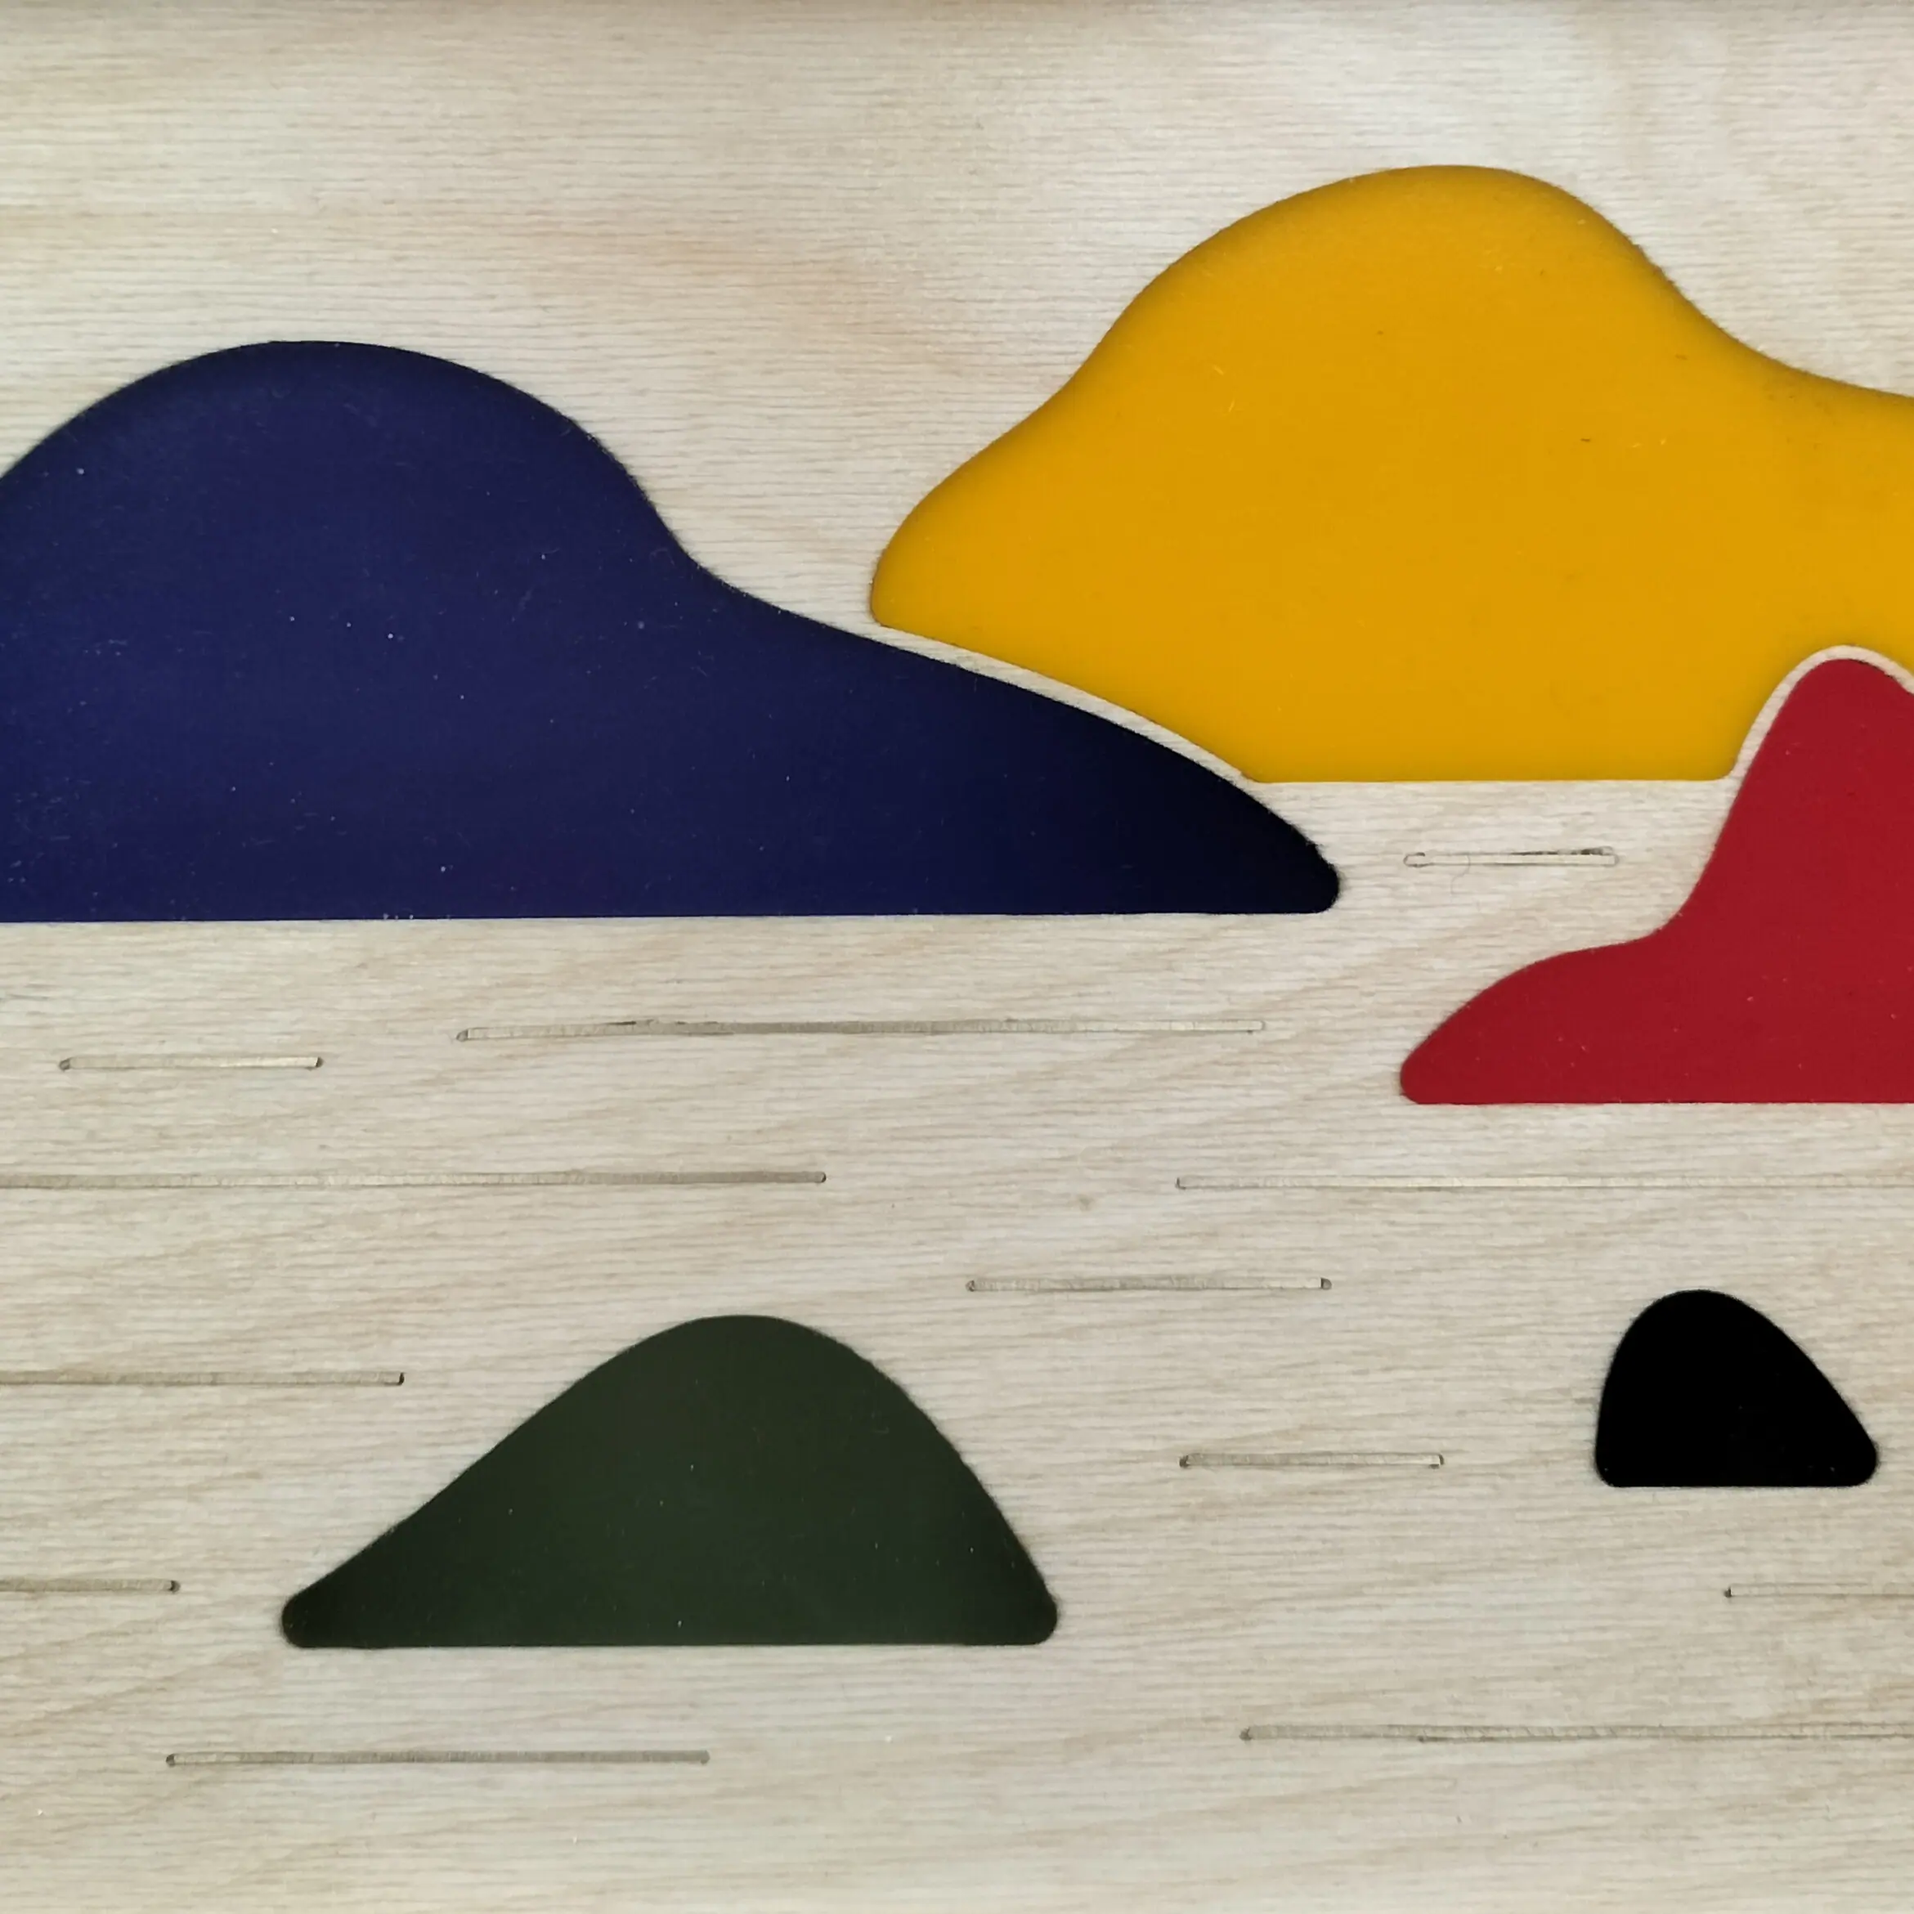
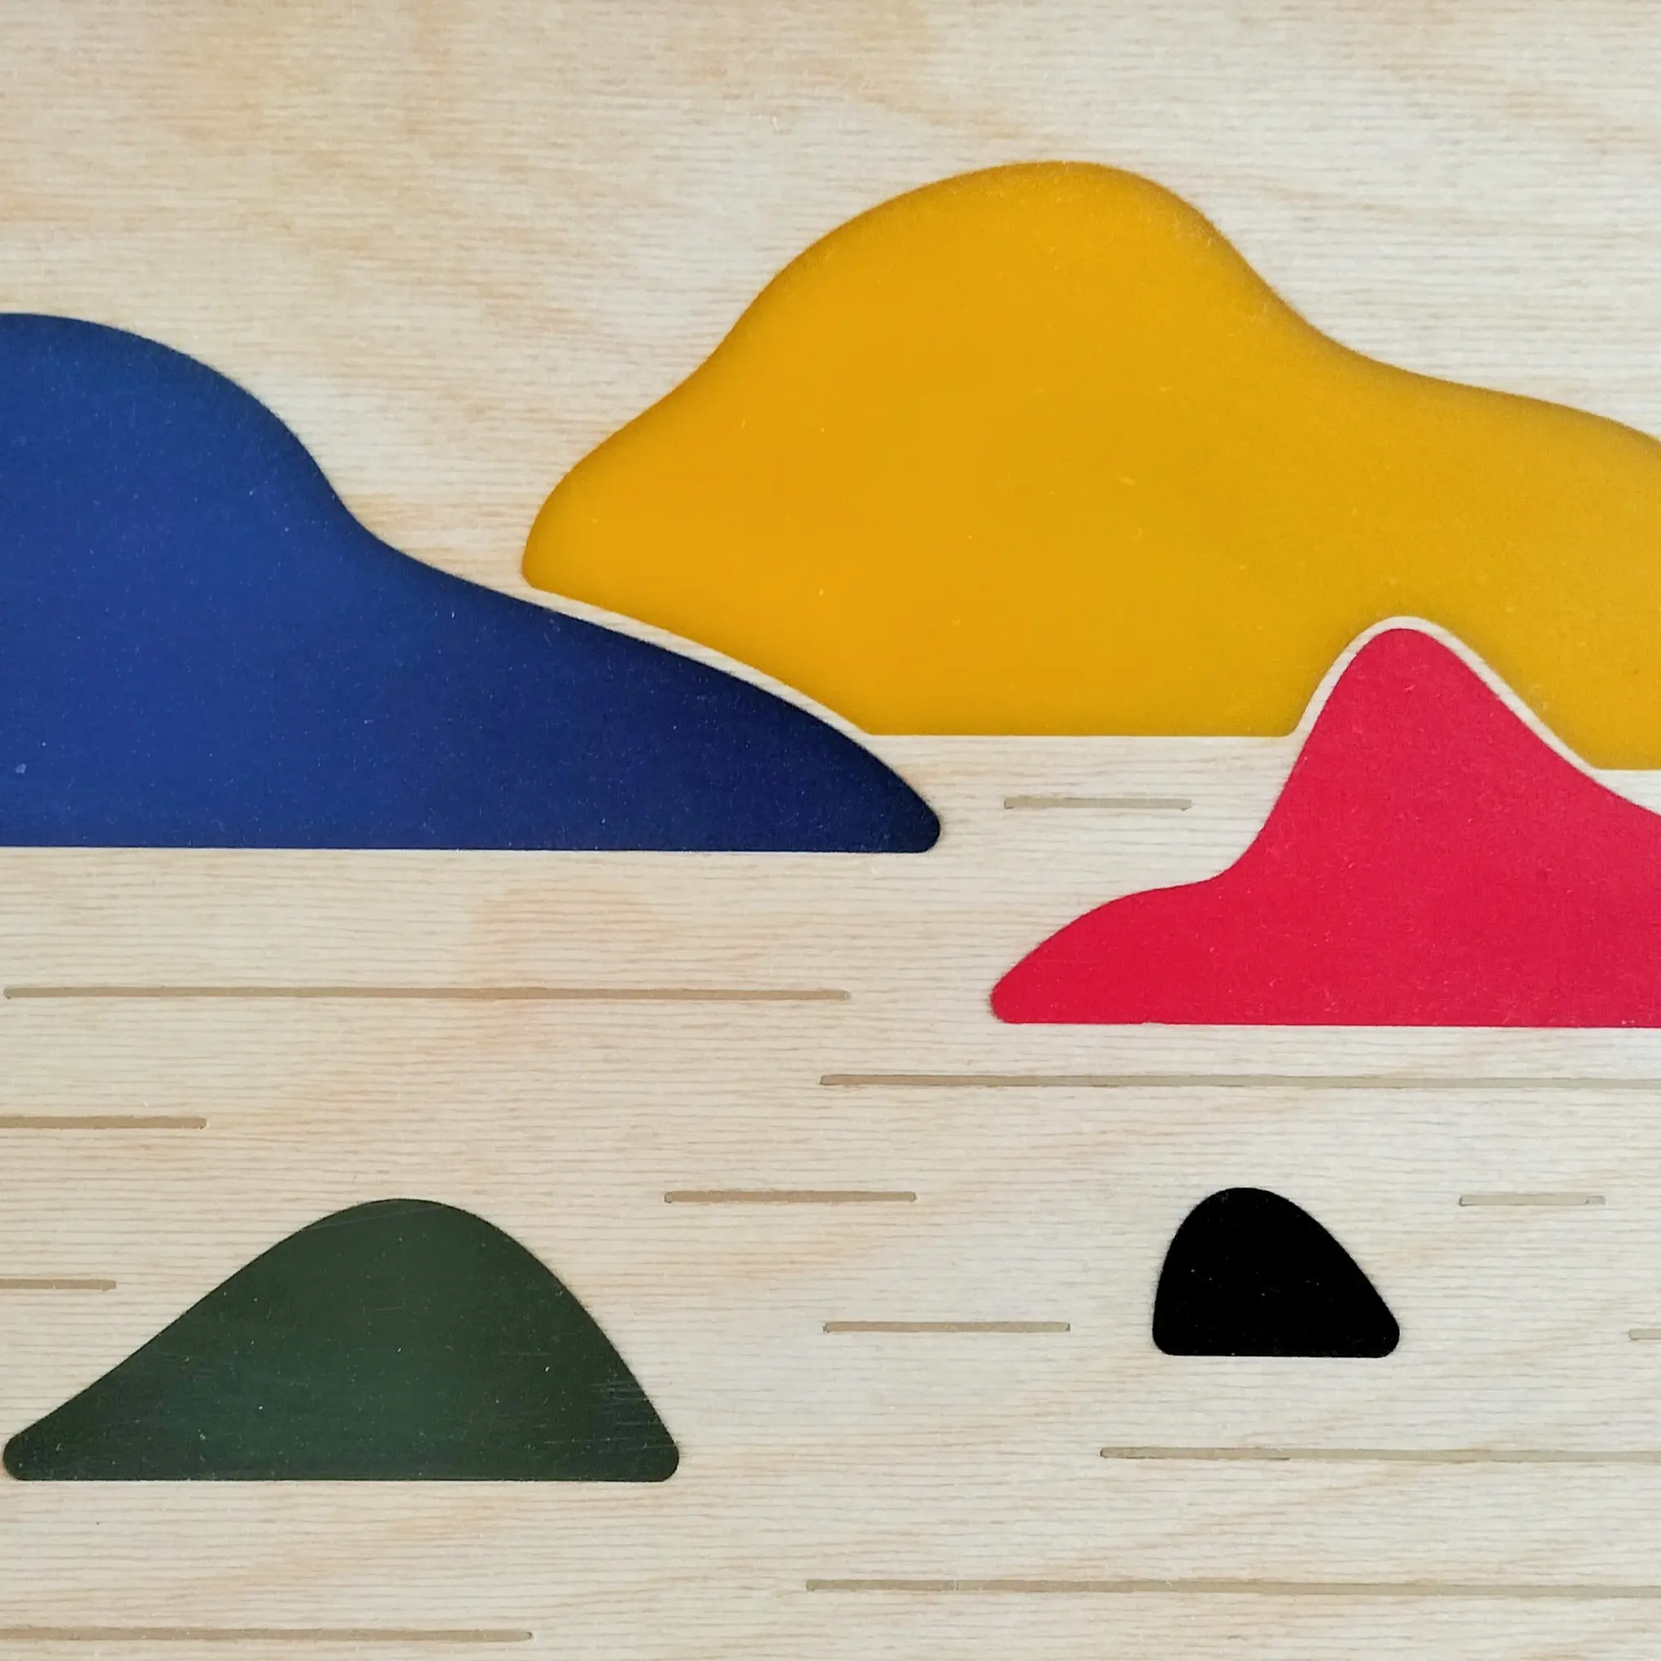
added photo

diff --git a/src/routes/contact.svelte b/src/routes/contact.svelte
@@ -1,5 +1,4 @@
 <script>
-	import Insta from 'svelte-remixicon/lib/icons/instagramLine.svelte';
 	import { seo } from '$lib/store.js';
 
 	$seo = {
@@ -8,47 +7,52 @@
 	};
 </script>
 
-<div class="p-6">
-	<h1 class="mb-12">Création de meuble unique</h1>
-	<div class="flex flex-wrap">
-		<div class="text-justify max-w-prose ">
-			<p class="mb-3">
-				Après un master en Dessin (La Cambre) et une formation en Ébénisterie et Menuiserie (Efp) à
-				Bruxelles, je commence en novembre 2021 mes propres <span class="font-bold"
-					>créations de meubles graphiques</span
-				>. Ils sont chacun uniques et fait à la main.
-			</p>
-			<p class="mb-3">
-				L’hêtre et le multiplex bouleau sont mes matériaux de base auxquels j’aime y associé
-				d’autres matières telles que le plexi, le laiton, la peinture,… Je suis toujours à la
-				recherche de nouveaux matériaux, éléments, contraintes ou couleurs qui m’inspirent l’idée de
-				la conception du nouveau meuble.
-			</p>
-			<p class="mb-3">
-				En février 2022 je me forme à la CNC et commence une nouvelle catégorie de meubles et objets
-				en bois. Ils utilisent cette technique et sont produits en mini série. Des formes plus
-				sobres mais une reconnexion avec l’univers du dessin.
-			</p>
-			<p class="">
-				<span>
-					Les nouveautés sont publiées au fur et à mesure avec leur prix TVA incluse (mais ne
-					comprend pas les frais de transport). Je suis sur Bruxelles si vous êtes intéressé et que
-					vous voulez venir voir le meuble en question. Pour suivre l’arrivée des nouveautés et
-					l’avancement du projet vous pouvez me suivre sur Instagram
-				</span>
-				<span class="inline-block ">
+<div class="p-6 flex">
+	<div>
+		<h1 class="mb-6">Création de meuble unique</h1>
+		<div class="flex-col sm:flex-row flex flex-wrap">
+			<div class="text-justify max-w-prose ">
+				<p class="mb-3">
+					Après un master en Dessin (La Cambre) et une formation en Ébénisterie et Menuiserie (Efp)
+					à Bruxelles, je commence en novembre 2021 mes propres <span class="font-bold"
+						>créations de meubles graphiques</span
+					>. Ils sont chacun uniques et fait à la main.
+				</p>
+				<p class="mb-3">
+					L’hêtre et le multiplex bouleau sont mes matériaux de base auxquels j’aime y associé
+					d’autres matières telles que le plexi, le laiton, la peinture,… Je suis toujours à la
+					recherche de nouveaux matériaux, éléments, contraintes ou couleurs qui m’inspirent l’idée
+					de la conception du nouveau meuble.
+				</p>
+				<p class="mb-3">
+					En février 2022 je me forme à la CNC et commence une nouvelle catégorie de meubles et
+					objets en bois. Ils utilisent cette technique et sont produits en mini série. Des formes
+					plus sobres mais une reconnexion avec l’univers du dessin.
+				</p>
+				<p class="">
 					<span>
-						<a class=" flex items-end font-bold" href="https://www.instagram.com/__popi__/">
-							__popi__
-						</a>
+						Les nouveautés sont publiées au fur et à mesure avec leur prix TVA incluse (mais ne
+						comprend pas les frais de transport). Je suis sur Bruxelles si vous êtes intéressé et
+						que vous voulez venir voir le meuble en question. Pour suivre l’arrivée des nouveautés
+						et l’avancement du projet vous pouvez me suivre sur Instagram
 					</span>
-				</span>.
-			</p>
+					<span class="inline-block ">
+						<span>
+							<a class=" flex items-end font-bold" href="https://www.instagram.com/__popi__/">
+								__popi__
+							</a>
+						</span>
+					</span>.
+				</p>
+			</div>
 		</div>
-		<!-- <img class="mx-auto" src="letter.webp" width="250" height="150" /> -->
+		<div class="mt-12">
+			<a class="" href="mailto: alix.nicolas1@gmail.com">alix.nicolas1@gmail.com</a>
+		</div>
 	</div>
-	<div class="mt-12">
-		<a class="" href="mailto: alix.nicolas1@gmail.com">alix.nicolas1@gmail.com</a>
+	<div class="flex flex-col  mt-12 mx-auto  xl:mt-0 sm:ml-32">
+		<img src="alix.webp" class="" width="300" />
+		<div class="text-sm">©XavierWillot</div>
 	</div>
 </div>
 

diff --git a/src/routes/index.svelte b/src/routes/index.svelte
@@ -10,14 +10,18 @@
 <div class="md:flex md:p-0 p-3 md:justify-center">
 	<a class="creationsk flex flex-col mb-3 sm:mb-0 " href="/creations">
 		<div class="flex items-center justify-center flex-grow">
-			<div class="creations-text absolute m-auto  text-white font-sans uppercase">CRÉATION</div>
-			<img style="w-full h-full" src="creations.webp" alt="creations" />
+			<div class="creations-text absolute m-auto  text-white font-sans uppercase">CRÉATIONS</div>
+			<img class="w-full h-full" src="creations.webp" alt="creations" />
 		</div>
 	</a>
-	<a class="collab md:p-3 " href="/mini_series">
-		<div class="flex items-center justify-center  ">
-			<div class="collab-text absolute m-auto font-sans uppercase text-white">Mini series</div>
-			<img src="mini_series.webp" alt="slash" />
+	<a class="sm:ml-3 collab flex flex-col  mb-3 sm:mb-0" href="/mini_series">
+		<div class="flex items-center justify-center  flex-grow relative">
+			<img class="h-full" src="mini_series.webp" alt="mini series" />
+			<div
+				class="collab-text absolute m-auto font-sans uppercase text-center text-white max-width-half sm:max-w-none"
+			>
+				Mini-Séries
+			</div>
 		</div>
 	</a>
 </div>

diff --git a/src/routes/__layout.svelte b/src/routes/__layout.svelte
@@ -93,14 +93,14 @@
 							href="creations"
 							class="block mt-4  text-teal-lighter {key === '/creations' && 'underline'}"
 						>
-							Creations
+							Créations
 						</a>
 						<a
 							on:click={autoclose}
 							href="mini_series"
 							class="block mt-4  text-teal-lighter {key === '/collab' && 'underline'}"
 						>
-							Mini Series
+							Mini-séries
 						</a>
 						<a
 							on:click={autoclose}

diff --git a/src/routes/mini_series.svelte b/src/routes/mini_series.svelte
@@ -6,7 +6,7 @@
 	$seo = {
 		title: 'Collaboration',
 		description:
-			'Artiste Popi Creations Meuble unique Design Furniture Collaborations multidisciplinaire'
+			'Artiste Popi Creations Meuble unique Design Furniture mini-series multidisciplinaire'
 	};
 </script>
 

diff --git a/src/styles/tailwind.css b/src/styles/tailwind.css
@@ -19,6 +19,13 @@
       .min-w-prose {
         min-width: 65ch;
       }
-      
+      .max-width-half {
+        max-width: 50%;
+      }
+
+      .alix-width {
+        width:300px
+
+      }
     }
   }

diff --git a/src/routes/sunset.svelte b/src/routes/sunset.svelte
@@ -53,6 +53,6 @@
 	}
 
 	.situation {
-		@apply px-12;
+		/* @apply px-12; */
 	}
 </style>
